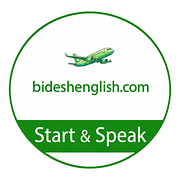
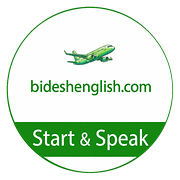
Add files via upload

Changed region(s): [[0.0278, 0.0278, 0.9722, 0.9722], [0.1667, 0.4444, 0.8611, 0.5278], [0.3333, 0.2222, 0.6389, 0.3889]]

diff --git a/index.html b/index.html
@@ -51,7 +51,7 @@
   }
   nav{display:flex;align-items:center;justify-content:space-between;padding:16px 0;position:relative;z-index:5;}
   .brand{display:flex;align-items:center;gap:10px;text-decoration:none;font-weight:800;font-size:19px;color:var(--pine);letter-spacing:-0.01em;}
-  .brand img{width:42px;height:42px;border-radius:50%;border:2px solid #fff;box-shadow:0 4px 12px -4px rgba(12,58,39,0.4);}
+  .brand img{width:42px;height:42px;border-radius:50%;box-shadow:0 4px 12px -4px rgba(12,58,39,0.4);}
   .nav-links{display:none;list-style:none;margin:0;padding:0;gap:28px;align-items:center;}
   .nav-links a{text-decoration:none;font-weight:700;font-size:16.5px;color:var(--pine);padding:6px 2px;border-bottom:2px solid transparent;}
   .nav-links a:hover{border-bottom-color:var(--leaf);}
@@ -99,8 +99,8 @@
 
   .hero-visual{position:relative;width:min(430px,100%);aspect-ratio:400/300;margin:14px auto 0;}
   .hero-visual svg{position:absolute;inset:0;width:100%;height:100%;overflow:visible;}
-  .emblem{position:absolute;right:4%;bottom:0;width:62%;aspect-ratio:1;border-radius:50%;border:6px solid #fff;
-    box-shadow:0 30px 50px -24px rgba(12,58,39,0.55), 0 0 0 1px rgba(12,58,39,0.08);background:#fff;}
+  .emblem{position:absolute;right:4%;bottom:0;width:62%;aspect-ratio:1;border-radius:50%;border:0;
+    box-shadow:0 30px 50px -24px rgba(12,58,39,0.55), 0 0 0 1px rgba(12,58,39,0.08);background:transparent;}
   .emblem img{width:100%;height:100%;display:block;border-radius:50%;}
 
   /* ---------- section heads ---------- */
@@ -162,7 +162,7 @@
   .wa-btn:hover{transform:translateY(-1px);}
 
   footer{padding:34px 0 46px;text-align:center;}
-  footer img{width:40px;height:40px;border-radius:50%;border:1px solid var(--line);}
+  footer img{width:40px;height:40px;border-radius:50%;}
   footer p{margin:8px 0 0;font-size:16.5px;font-weight:600;color:var(--ink);}
 
   /* ---------- menu overlay (mobile) ---------- */

diff --git a/about.html b/about.html
@@ -49,7 +49,7 @@
     padding-bottom:40px;}
   nav{display:flex;align-items:center;justify-content:space-between;padding:16px 0;}
   .brand{display:flex;align-items:center;gap:10px;text-decoration:none;font-weight:800;font-size:19px;color:var(--pine);}
-  .brand img{width:42px;height:42px;border-radius:50%;border:2px solid #fff;box-shadow:0 4px 12px -4px rgba(12,58,39,0.4);}
+  .brand img{width:42px;height:42px;border-radius:50%;box-shadow:0 4px 12px -4px rgba(12,58,39,0.4);}
   .nav-links{display:none;list-style:none;margin:0;padding:0;gap:30px;}
   .nav-links a{text-decoration:none;font-weight:700;color:var(--pine);}
   .nav-links a[aria-current]{border-bottom:3px solid var(--sun);padding-bottom:2px;}
@@ -115,7 +115,7 @@
   .cta-row{display:flex;flex-wrap:wrap;gap:12px;}
 
   footer{padding:38px 0 48px;text-align:center;}
-  footer img{width:40px;height:40px;border-radius:50%;border:1px solid var(--line);}
+  footer img{width:40px;height:40px;border-radius:50%;}
   footer p{margin-top:8px;font-size:16.5px;font-weight:600;color:var(--pine);}
 
   @media (min-width:760px){

diff --git a/privacy.html b/privacy.html
@@ -49,7 +49,7 @@
     padding-bottom:40px;}
   nav{display:flex;align-items:center;justify-content:space-between;padding:16px 0;}
   .brand{display:flex;align-items:center;gap:10px;text-decoration:none;font-weight:800;font-size:19px;color:var(--pine);}
-  .brand img{width:42px;height:42px;border-radius:50%;border:2px solid #fff;box-shadow:0 4px 12px -4px rgba(12,58,39,0.4);}
+  .brand img{width:42px;height:42px;border-radius:50%;box-shadow:0 4px 12px -4px rgba(12,58,39,0.4);}
   .nav-links{display:none;list-style:none;margin:0;padding:0;gap:30px;}
   .nav-links a{text-decoration:none;font-weight:700;color:var(--pine);}
   .nav-links a[aria-current]{border-bottom:3px solid var(--sun);padding-bottom:2px;}
@@ -115,7 +115,7 @@
   .cta-row{display:flex;flex-wrap:wrap;gap:12px;}
 
   footer{padding:38px 0 48px;text-align:center;}
-  footer img{width:40px;height:40px;border-radius:50%;border:1px solid var(--line);}
+  footer img{width:40px;height:40px;border-radius:50%;}
   footer p{margin-top:8px;font-size:16.5px;font-weight:600;color:var(--pine);}
 
   @media (min-width:760px){

diff --git a/terms.html b/terms.html
@@ -49,7 +49,7 @@
     padding-bottom:40px;}
   nav{display:flex;align-items:center;justify-content:space-between;padding:16px 0;}
   .brand{display:flex;align-items:center;gap:10px;text-decoration:none;font-weight:800;font-size:19px;color:var(--pine);}
-  .brand img{width:42px;height:42px;border-radius:50%;border:2px solid #fff;box-shadow:0 4px 12px -4px rgba(12,58,39,0.4);}
+  .brand img{width:42px;height:42px;border-radius:50%;box-shadow:0 4px 12px -4px rgba(12,58,39,0.4);}
   .nav-links{display:none;list-style:none;margin:0;padding:0;gap:30px;}
   .nav-links a{text-decoration:none;font-weight:700;color:var(--pine);}
   .nav-links a[aria-current]{border-bottom:3px solid var(--sun);padding-bottom:2px;}
@@ -115,7 +115,7 @@
   .cta-row{display:flex;flex-wrap:wrap;gap:12px;}
 
   footer{padding:38px 0 48px;text-align:center;}
-  footer img{width:40px;height:40px;border-radius:50%;border:1px solid var(--line);}
+  footer img{width:40px;height:40px;border-radius:50%;}
   footer p{margin-top:8px;font-size:16.5px;font-weight:600;color:var(--pine);}
 
   @media (min-width:760px){

diff --git a/lesson.html b/lesson.html
@@ -46,7 +46,7 @@
   .bar{display:flex;align-items:center;justify-content:space-between;padding-top:14px;padding-bottom:10px;gap:12px;}
   .back{display:inline-flex;align-items:center;gap:6px;color:var(--pine);font-weight:700;text-decoration:none;font-size:16.5px;padding:8px 16px 8px 12px;background:#fff;border-radius:999px;box-shadow:0 2px 10px -3px rgba(12,58,39,0.35);}
   .brand{display:flex;align-items:center;gap:8px;text-decoration:none;color:var(--pine);font-weight:800;font-size:17px;}
-  .brand img{width:34px;height:34px;border-radius:50%;border:2px solid #fff;box-shadow:0 2px 8px -2px rgba(12,58,39,0.4);}
+  .brand img{width:34px;height:34px;border-radius:50%;box-shadow:0 2px 8px -2px rgba(12,58,39,0.4);}
 
   /* ---------- title ---------- */
   h1{margin:14px 0 2px;font-weight:800;font-size:clamp(28px,7vw,38px);line-height:1.16;color:var(--pine);letter-spacing:-0.02em;}
